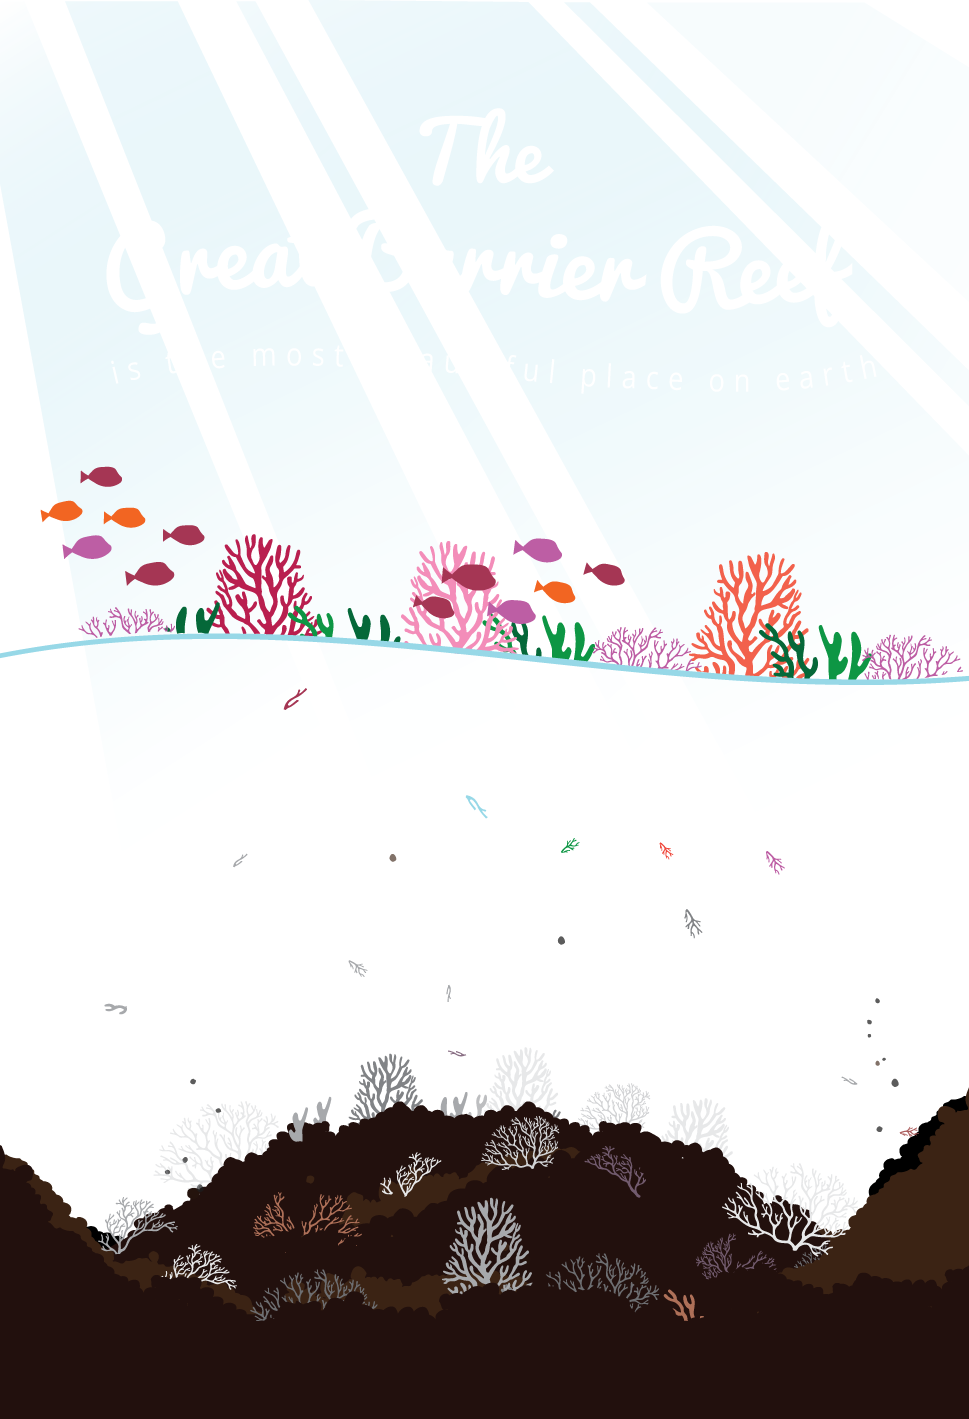
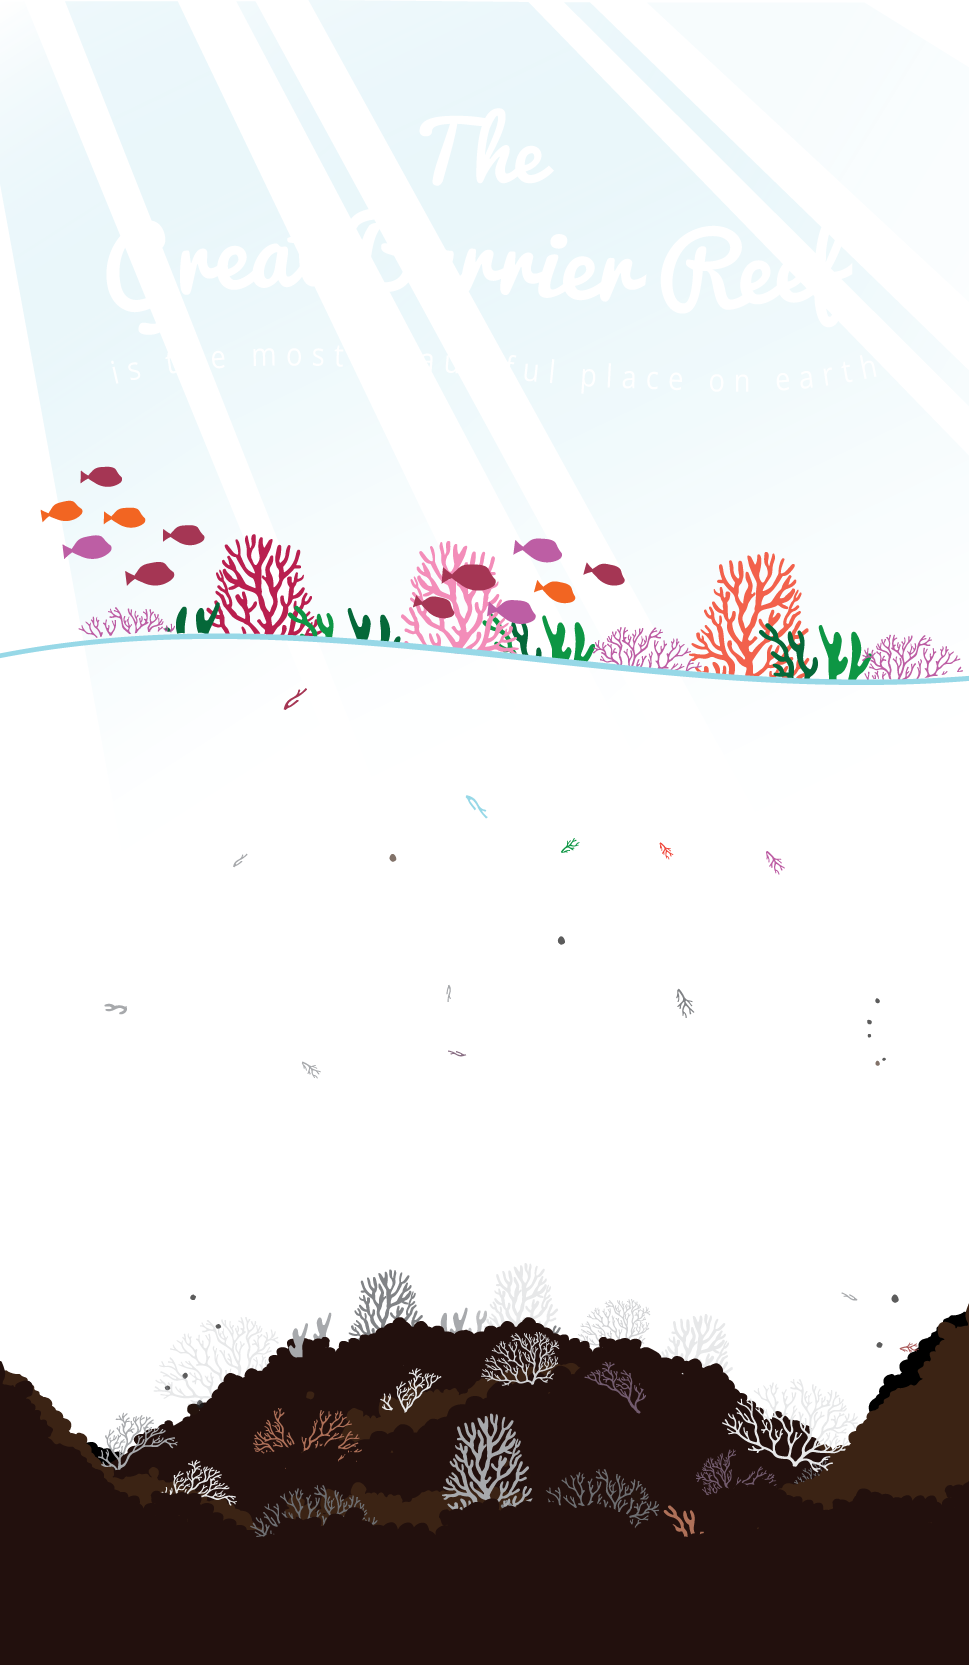
Positioning Button and text

diff --git a/app/styles/responsive.css b/app/styles/responsive.css
@@ -5,7 +5,7 @@
 @media(max-width: 1200px){
 	.section-intro h2{
 		font-size: 25px;
-		margin-top: 616px;
+		margin-top: 509px;
 	}
 	.section-intro{
 background-image: url(../images/desktop.png),  linear-gradient(to bottom,  rgba(110,204,224,1) 0%,rgba(54,44,41,1) 100%);
@@ -119,11 +119,12 @@ background-image: url(../images/mobile.png),  linear-gradient(to bottom,  rgba(1
 	.section-intro h2{
 		font-size: 18px;
 		margin-top: 401px;
-		margin-top: 292px;
+		    margin-top: 310px;
 	}
 
 	.section-intro-wrapper{
-		padding-bottom: 137.65%;
+		padding-bottom: 167.65%;
+
 
 	}
 
@@ -205,7 +206,7 @@ background-image: url(../images/mobile.png),  linear-gradient(to bottom,  rgba(1
 
 @media (max-width: 375px) {
 	.section-intro h2 {
-	margin-top: 308px;
+	margin-top: 285px;
 
 	font-size: 17px;
 }
@@ -221,7 +222,8 @@ background-image: url(../images/mobile.png),  linear-gradient(to bottom,  rgba(1
    position:absolute; 
 }
 .section-intro-wrapper {
-    padding-bottom: 154.65%;
+    padding-bottom: 166.65%;
+
   }
 
 }

diff --git a/app/styles/pat.css b/app/styles/pat.css
@@ -109,7 +109,7 @@ background-color: #22130D;
 .section-intro h2{
   text-transform: lowercase;
   color: #3C2415;
-  margin-top: 501px;
+  margin-top: 697px;
   font-size: 40px;
   font-weight: bold;
 
